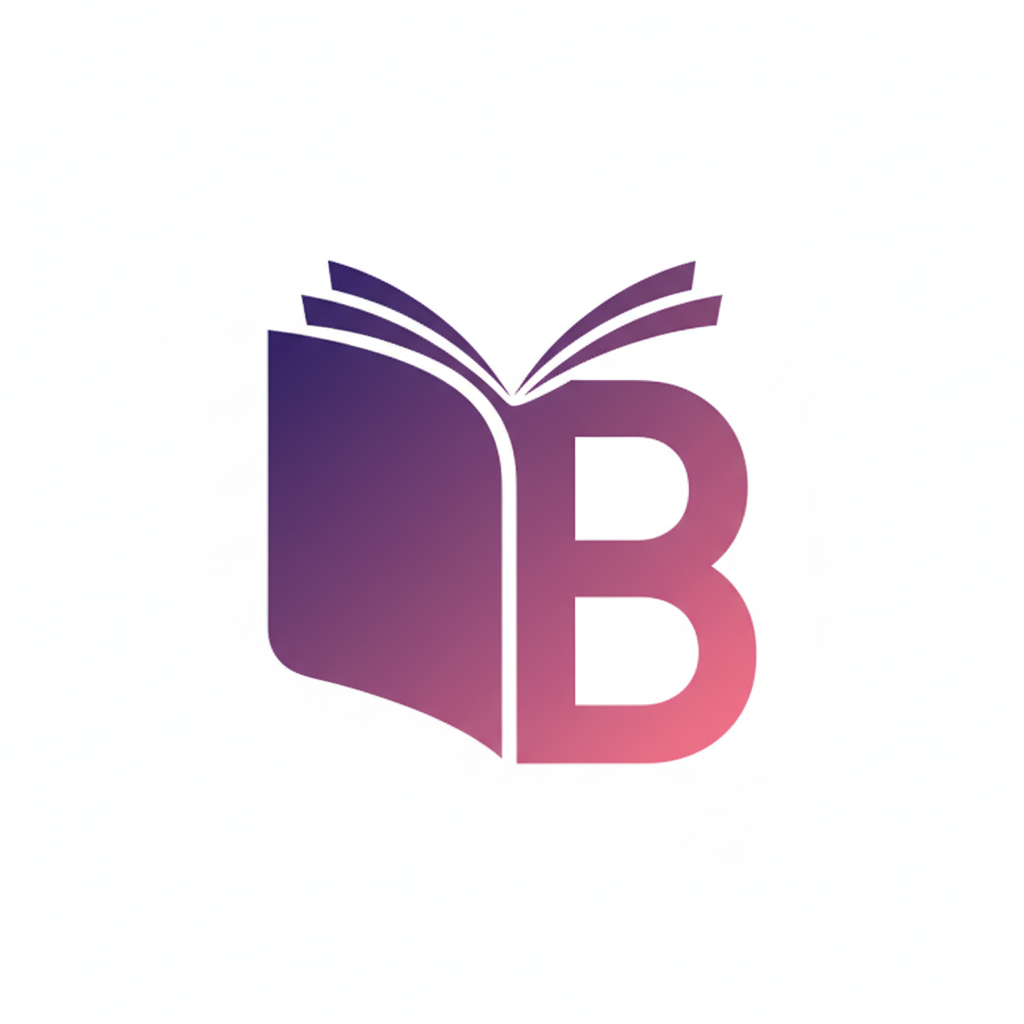
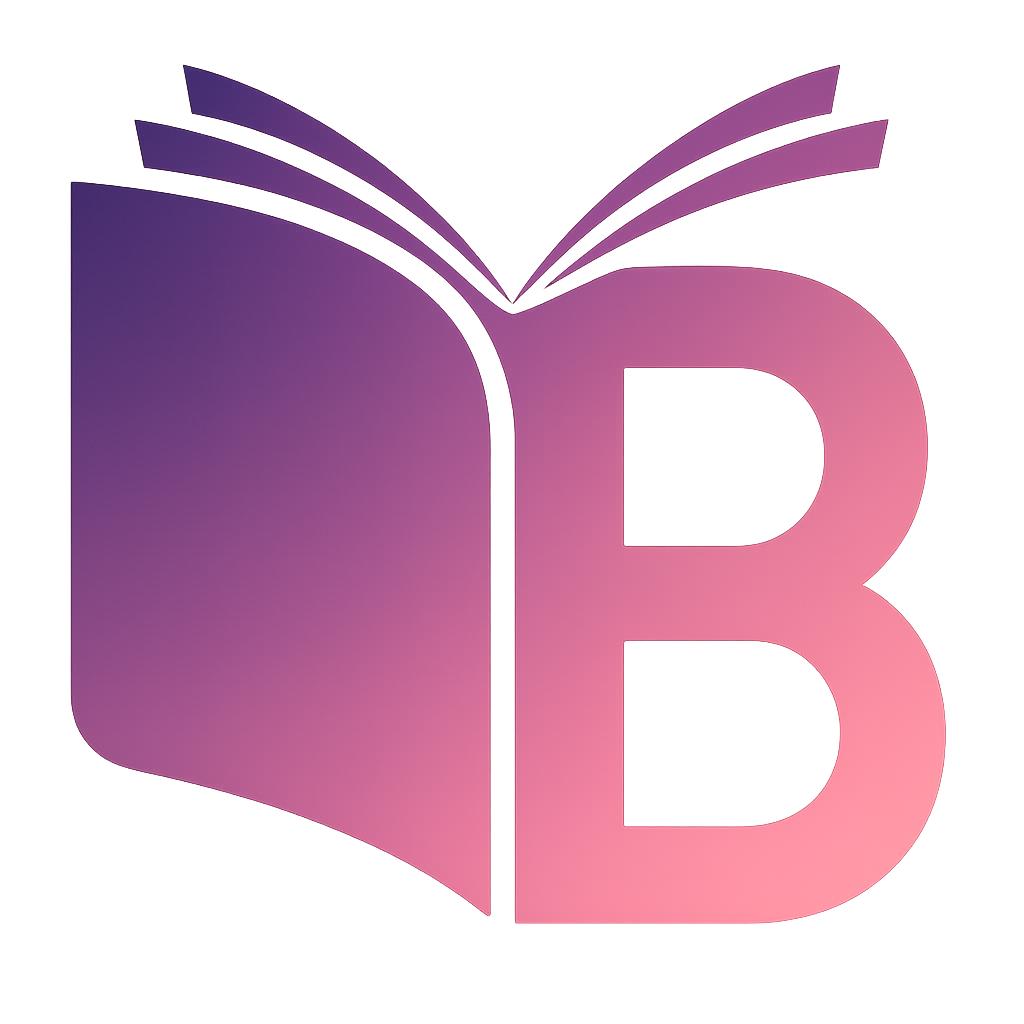
casi todo listo

diff --git a/pages/Nuestro Equipo.html b/pages/Nuestro Equipo.html
@@ -9,22 +9,8 @@
     </head>
     <body class="flex flex-col items-center relative ">
         <header class="header fixed top-5 flex border border-pink-300/30 bg-white/5 backdrop-blur-md expandir w-max max-w-[95%] min-w-[60%] p-3 px-7 justify-between items-center text-white rounded-2xl h-18 shadow-2xl shadow-cyan-500/40 hover:bg-white/10 hover:shadow-pink-500/40 transition-all duration-400 ease-in-out gap-15 max-sm:gap-4 scale-100 max-sm:w-[85%] max-sm:hover:shadow-cyan-500/40 max-sm:hover:bg-white/5 max-sm:shadow-lg z-40">
-            <div class="relative bg-gradient-to-br from-purple-600 via-pink-500 to-cyan-500 p-3 rounded-full sombra-low ">
-                <svg
-                    xmlns="http://www.w3.org/2000/svg"
-                    width="20"
-                    height="20"
-                    viewBox="0 0 24 24"
-                    fill="none"
-                    stroke="currentColor"
-                    stroke-width="2"
-                    stroke-linecap="round"
-                    stroke-linejoin="round"
-                    class="lucide lucide-book-open-icon lucide-book-open"
-                >
-                    <path d="M12 7v14"/>
-                    <path d="M3 18a1 1 0 0 1-1-1V4a1 1 0 0 1 1-1h5a4 4 0 0 1 4 4 4 4 0 0 1 4-4h5a1 1 0 0 1 1 1v13a1 1 0 0 1-1 1h-6a3 3 0 0 0-3 3 3 3 0 0 0-3-3z"/>
-                </svg>
+            <div class="relative bg-gradient-to-br from-purple-400 via-pink-600 to-cyan-400 p-3 rounded-full sombra-low ">
+                <img class="w-[24px] h-[24px]" src="../src/icon.png">
             </div>
             <nav class="flex text-sm gap-4 nav max-sm:hidden">
                 <a class="flex justify-center items-center border border-gray-200/20 bg-white/10 rounded-3xl px-3 py-1.5 gap-3 hover:scale-105 transition-all duration-300 ease-in-out hover:shadow-lg hover:shadow-purple-500/40 hover:border-purple-500/50 hover:bg-purple-400/20 hover:text-purple-300 cursor-default" href="../index.html">
@@ -416,7 +402,7 @@
                         <div class="w-1/2 h-auto bg-fuchsia-900/40 flex items-center justify-center rounded-full">
                             <img class="rounded-full scale-90" src="https://hebbkx1anhila5yf.public.blob.vercel-storage.com/placeholder-ObxMt4d3T5MDA2Ca7JyHf5lCNuxMZN.png">
                         </div>
-                        <h2 class="text-2xl font-semibold text-orange-600 nombre transition-all group-hover:text-purple-600">Estiff León</h2>
+                        <h2 class="text-2xl font-semibold text-orange-600 nombre transition-all group-hover:text-purple-600">Jair Matias</h2>
                     </div>
                     <div class="w-full flex flex-col gap-2">
                         <span class="flex gap-2 items-center text-sm ">
@@ -464,7 +450,7 @@
                         <div class="w-1/2 h-auto bg-fuchsia-900/40 flex items-center justify-center rounded-full">
                             <img class="rounded-full scale-90" src="https://hebbkx1anhila5yf.public.blob.vercel-storage.com/placeholder-ObxMt4d3T5MDA2Ca7JyHf5lCNuxMZN.png">
                         </div>
-                        <h2 class="text-2xl font-semibold text-orange-600 nombre transition-all group-hover:text-purple-600">Estiff León</h2>
+                        <h2 class="text-2xl font-semibold text-orange-600 nombre transition-all group-hover:text-purple-600">Sharlot Ramos</h2>
                     </div>
                     <div class="w-full flex flex-col gap-2">
                         <span class="flex gap-2 items-center text-sm ">
@@ -512,7 +498,7 @@
                         <div class="w-1/2 h-auto bg-fuchsia-900/40 flex items-center justify-center rounded-full">
                             <img class="rounded-full scale-90" src="https://hebbkx1anhila5yf.public.blob.vercel-storage.com/placeholder-ObxMt4d3T5MDA2Ca7JyHf5lCNuxMZN.png">
                         </div>
-                        <h2 class="text-2xl font-semibold text-orange-600 nombre transition-all group-hover:text-purple-600">Estiff León</h2>
+                        <h2 class="text-2xl font-semibold text-orange-600 nombre transition-all group-hover:text-purple-600">Kimberly Saurez</h2>
                     </div>
                     <div class="w-full flex flex-col gap-2">
                         <span class="flex gap-2 items-center text-sm ">

diff --git a/ensayos/1.html b/ensayos/1.html
@@ -9,22 +9,8 @@
     </head>
     <body class="flex flex-col items-center relative ">
         <header class="header fixed top-5 flex border border-pink-300/30 bg-white/5 backdrop-blur-md expandir w-max max-w-[95%] min-w-[60%] p-3 px-7 justify-between items-center text-white rounded-2xl h-18 shadow-2xl shadow-cyan-500/40 hover:bg-white/10 hover:shadow-pink-500/40 transition-all duration-400 ease-in-out gap-15 max-sm:gap-4 scale-100 max-sm:w-[85%] max-sm:hover:shadow-cyan-500/40 max-sm:hover:bg-white/5 max-sm:shadow-lg z-40">
-            <div class="relative bg-gradient-to-br from-purple-600 via-pink-500 to-cyan-500 p-3 rounded-full sombra-low ">
-                <svg
-                    xmlns="http://www.w3.org/2000/svg"
-                    width="20"
-                    height="20"
-                    viewBox="0 0 24 24"
-                    fill="none"
-                    stroke="currentColor"
-                    stroke-width="2"
-                    stroke-linecap="round"
-                    stroke-linejoin="round"
-                    class="lucide lucide-book-open-icon lucide-book-open"
-                >
-                    <path d="M12 7v14"/>
-                    <path d="M3 18a1 1 0 0 1-1-1V4a1 1 0 0 1 1-1h5a4 4 0 0 1 4 4 4 4 0 0 1 4-4h5a1 1 0 0 1 1 1v13a1 1 0 0 1-1 1h-6a3 3 0 0 0-3 3 3 3 0 0 0-3-3z"/>
-                </svg>
+            <div class="relative bg-gradient-to-br from-purple-400 via-pink-600 to-cyan-400 p-3 rounded-full sombra-low ">
+                <img class="w-[24px] h-[24px]" src="../src/icon.png">
             </div>
             <nav class="flex text-sm gap-4 nav max-sm:hidden">
                 <a class="flex justify-center items-center border border-gray-200/20 bg-white/10 rounded-3xl px-3 py-1.5 gap-3 hover:scale-105 transition-all duration-300 ease-in-out hover:shadow-lg hover:shadow-purple-500/40 hover:border-purple-500/50 hover:bg-purple-400/20 hover:text-purple-300 cursor-default" href="../index.html">

diff --git a/pages/Ensayos.html b/pages/Ensayos.html
@@ -9,22 +9,8 @@
     </head>
     <body class="flex flex-col items-center relative ">
         <header class="header fixed top-5 flex border border-pink-300/30 bg-white/5 backdrop-blur-md expandir w-max max-w-[95%] min-w-[60%] p-3 px-7 justify-between items-center text-white rounded-2xl h-18 shadow-2xl shadow-cyan-500/40 hover:bg-white/10 hover:shadow-pink-500/40 transition-all duration-400 ease-in-out gap-15 max-sm:gap-4 scale-100 max-sm:w-[85%] max-sm:hover:shadow-cyan-500/40 max-sm:hover:bg-white/5 max-sm:shadow-lg z-40">
-            <div class="relative bg-gradient-to-br from-purple-600 via-pink-500 to-cyan-500 p-3 rounded-full sombra-low ">
-                <svg
-                    xmlns="http://www.w3.org/2000/svg"
-                    width="20"
-                    height="20"
-                    viewBox="0 0 24 24"
-                    fill="none"
-                    stroke="currentColor"
-                    stroke-width="2"
-                    stroke-linecap="round"
-                    stroke-linejoin="round"
-                    class="lucide lucide-book-open-icon lucide-book-open"
-                >
-                    <path d="M12 7v14"/>
-                    <path d="M3 18a1 1 0 0 1-1-1V4a1 1 0 0 1 1-1h5a4 4 0 0 1 4 4 4 4 0 0 1 4-4h5a1 1 0 0 1 1 1v13a1 1 0 0 1-1 1h-6a3 3 0 0 0-3 3 3 3 0 0 0-3-3z"/>
-                </svg>
+            <div class="relative bg-gradient-to-br from-purple-400 via-pink-600 to-cyan-400 p-3 rounded-full sombra-low ">
+                <img class="w-[24px] h-[24px]" src="../src/icon.png">
             </div>
             <nav class="flex text-sm gap-4 nav max-sm:hidden">
                 <a class="flex justify-center items-center border border-gray-200/20 bg-white/10 rounded-3xl px-3 py-1.5 gap-3 hover:scale-105 transition-all duration-300 ease-in-out hover:shadow-lg hover:shadow-purple-500/40 hover:border-purple-500/50 hover:bg-purple-400/20 hover:text-purple-300 cursor-default" href="../index.html">

diff --git a/index.html b/index.html
@@ -9,22 +9,8 @@
     </head>
     <body class="flex flex-col items-center relative    ">
         <header class="header fixed top-5 flex border border-pink-300/30 bg-white/5 backdrop-blur-md expandir w-max min-w-[60%] max-w-[95%] p-3 px-7 justify-between items-center text-white rounded-2xl h-18 shadow-2xl shadow-cyan-500/40 hover:bg-white/10 hover:shadow-pink-500/40 transition-all duration-400 ease-in-out gap-15 max-sm:gap-4 scale-100 max-sm:w-[85%] max-sm:hover:shadow-cyan-500/40 max-sm:hover:bg-white/5 max-sm:shadow-lg z-40">
-            <div class="relative bg-gradient-to-br from-purple-600 via-pink-500 to-cyan-500 p-3 rounded-full sombra-low ">
-                <svg
-                    xmlns="http://www.w3.org/2000/svg"
-                    width="20"
-                    height="20"
-                    viewBox="0 0 24 24"
-                    fill="none"
-                    stroke="currentColor"
-                    stroke-width="2"
-                    stroke-linecap="round"
-                    stroke-linejoin="round"
-                    class="lucide lucide-book-open-icon lucide-book-open"
-                >
-                    <path d="M12 7v14"/>
-                    <path d="M3 18a1 1 0 0 1-1-1V4a1 1 0 0 1 1-1h5a4 4 0 0 1 4 4 4 4 0 0 1 4-4h5a1 1 0 0 1 1 1v13a1 1 0 0 1-1 1h-6a3 3 0 0 0-3 3 3 3 0 0 0-3-3z"/>
-                </svg>
+            <div class="relative bg-gradient-to-br from-purple-400 via-pink-600 to-cyan-400 p-3 rounded-full sombra-low ">
+                <img class="w-[24px] h-[24px]" src="./src/icon.png">
             </div>
             <nav class="flex text-sm gap-4 nav max-sm:hidden">
                 <a class="flex justify-center items-center border border-gray-200/20 bg-white/10 rounded-3xl px-3 py-1.5 gap-3 hover:scale-105 transition-all duration-300 ease-in-out hover:shadow-lg hover:shadow-purple-500/40 hover:border-purple-500/50 hover:bg-purple-400/20 hover:text-purple-300 cursor-default" href="index.html">
